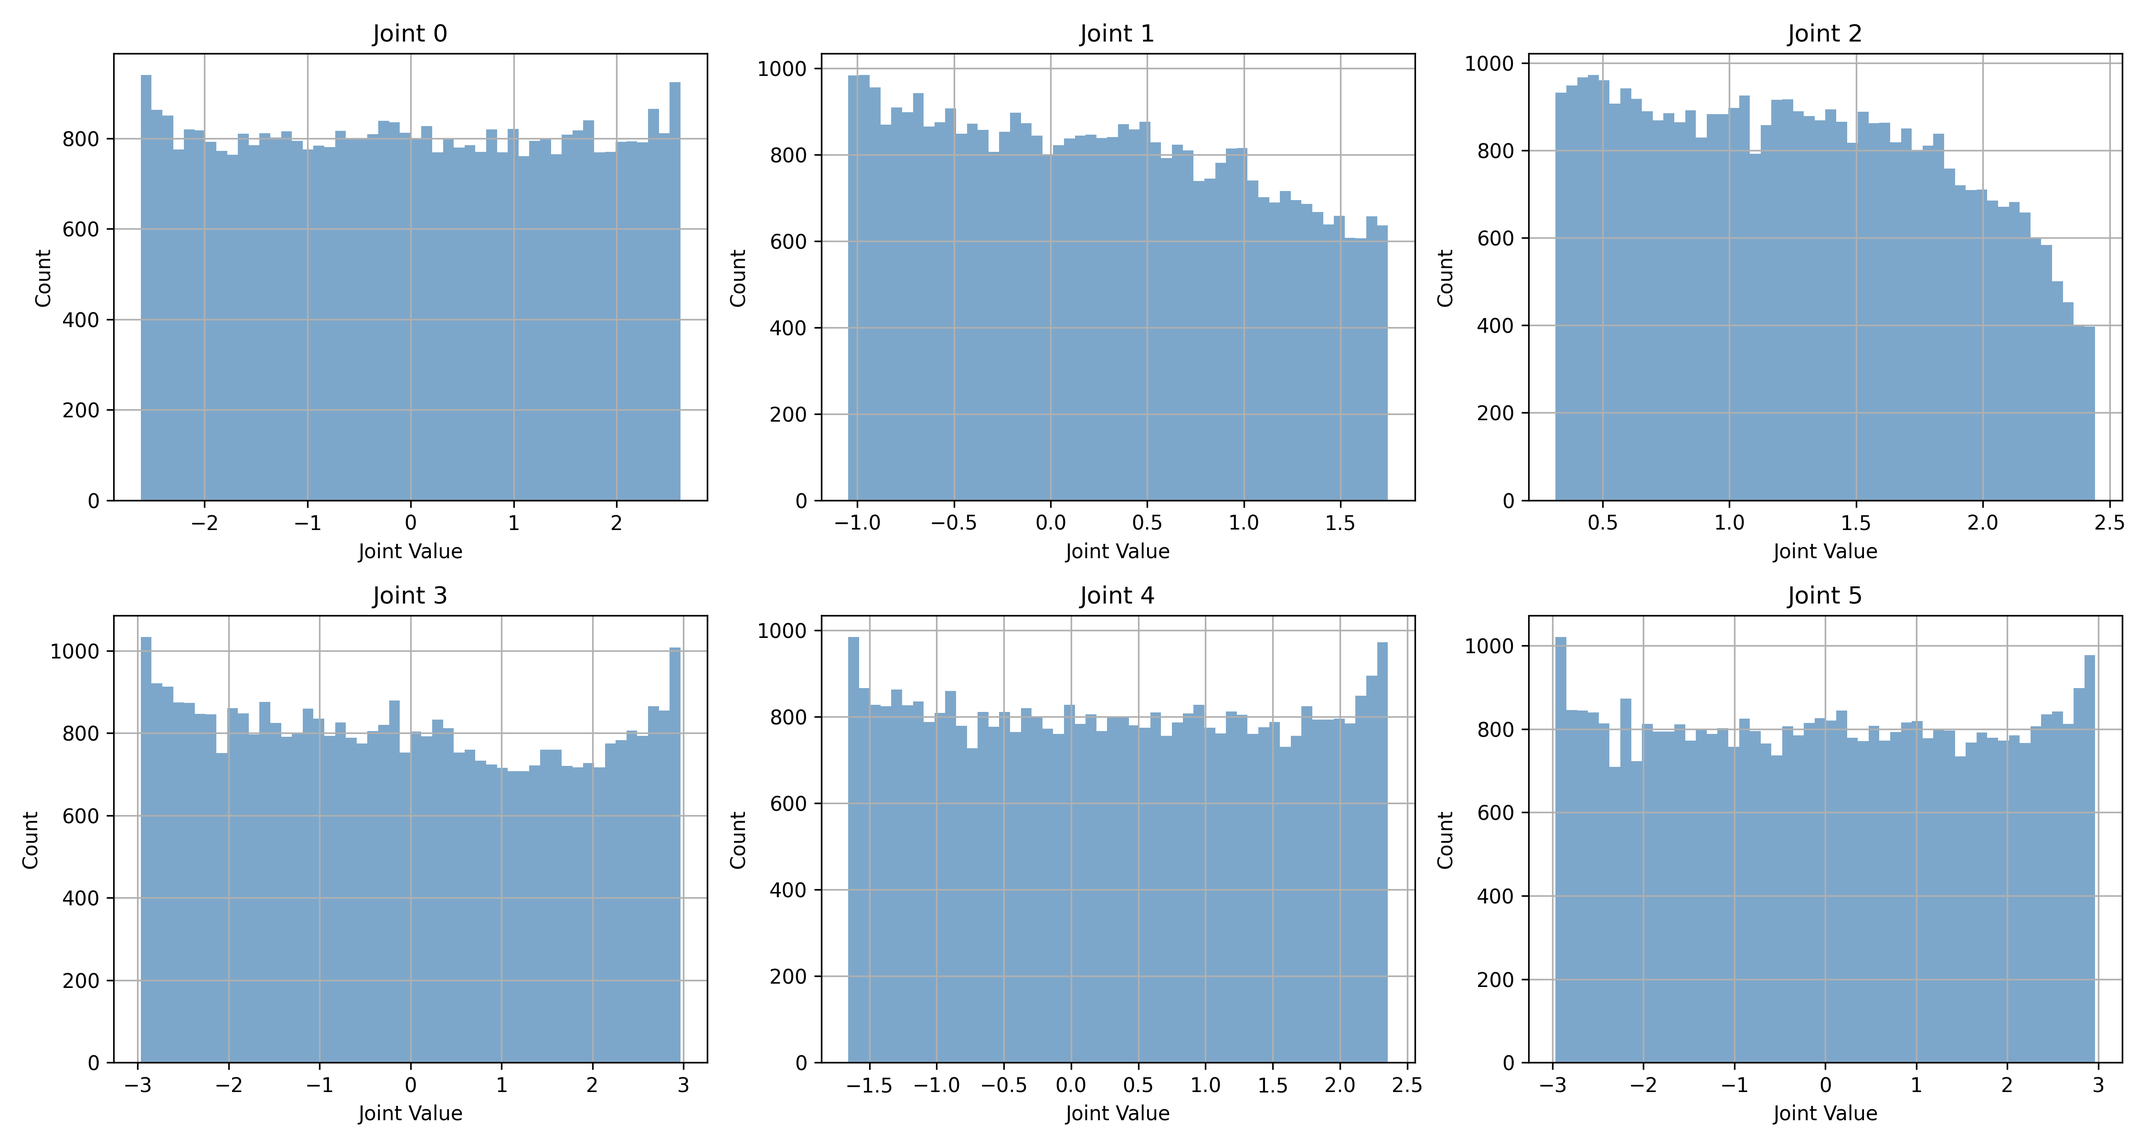
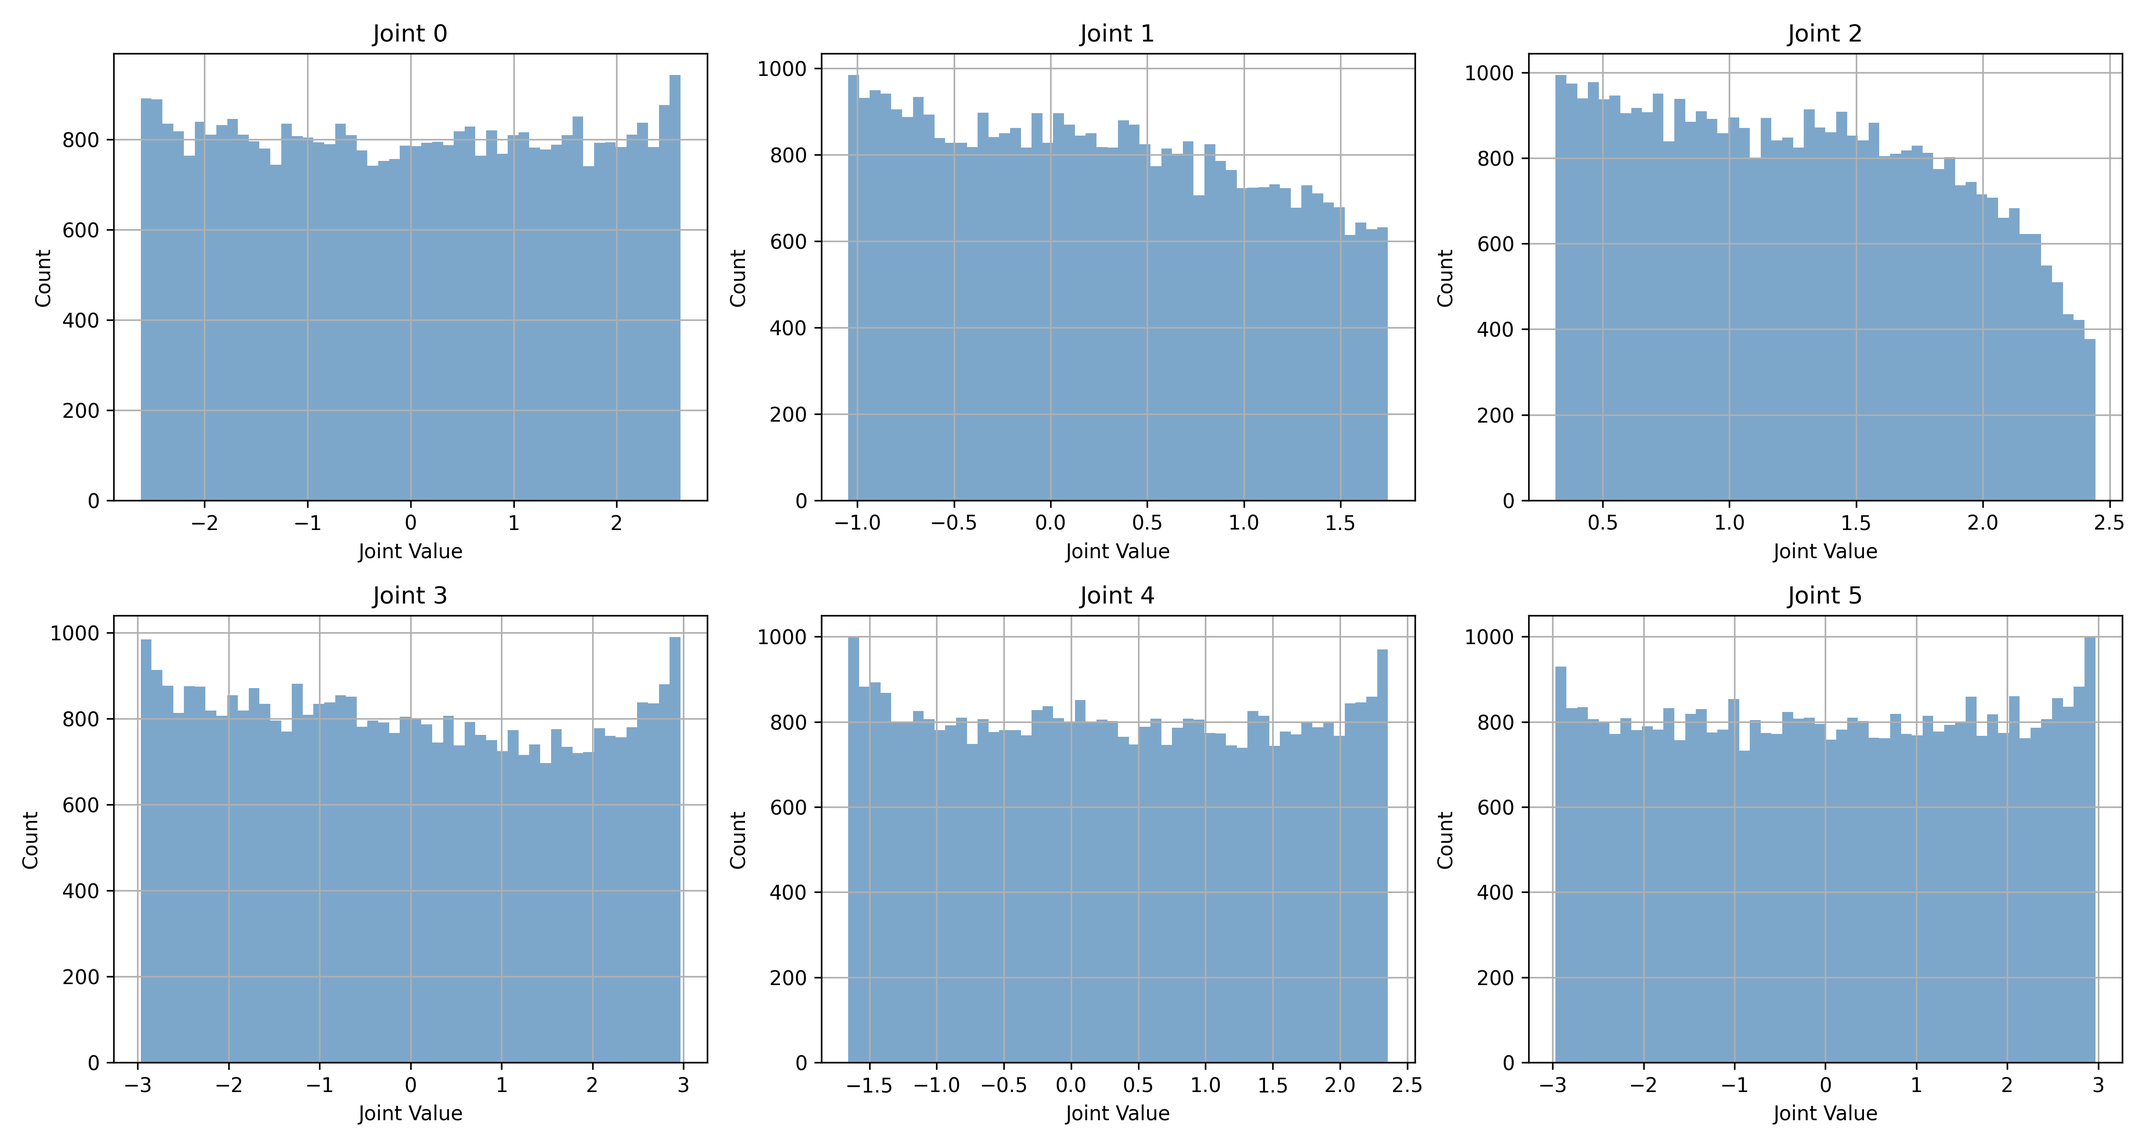
save before change to faiss for rrt roadmap saving

diff --git a/wrs/robot_sim/_kinematics/ik_dd.py b/wrs/robot_sim/_kinematics/ik_dd.py
@@ -24,42 +24,8 @@ from sklearn.linear_model import RANSACRegressor
 from scipy.spatial.distance import cdist
 from sklearn.cluster import MeanShift, estimate_bandwidth
 
-import numpy as np
 
-import numpy as np
-
-import numpy as np
-import numpy as np
-
-import numpy as np
-
-def damped_pinv(J, damping=1e-4):
-    m, n = J.shape
-    if m >= n:
-        # "Tall" or square Jacobian: (JᵗJ + λ²I)⁻¹ Jᵗ
-        JTJ = J.T @ J
-        damped_term = damping ** 2 * np.eye(n)
-        return np.linalg.inv(JTJ + damped_term) @ J.T
-    else:
-        # "Wide" Jacobian: Jᵗ (JJᵗ + λ²I)⁻¹
-        JJT = J @ J.T
-        damped_term = damping ** 2 * np.eye(m)
-        return J.T @ np.linalg.inv(JJT + damped_term)
-
-def clamp_tgt_err(f2t_pos_err, f2t_rot_err, f2t_err_vec):
-    clamp_pos_err = .1
-    clamp_rot_err = np.pi / 10.0
-    clamped_vec = np.copy(f2t_err_vec)
-    if f2t_pos_err >= clamp_pos_err:
-        clamped_vec[:3] = clamp_pos_err * f2t_err_vec[:3] / f2t_pos_err
-    if f2t_rot_err >= clamp_rot_err:
-        clamped_vec[3:6] = clamp_rot_err * f2t_err_vec[3:6] / f2t_rot_err
-    return clamped_vec
-
-def cosine_similarity(a, b, eps=1e-8):
-    dot = np.sum(a * b, axis=1)
-    norm = np.linalg.norm(a, axis=1) * np.linalg.norm(b, axis=1)
-    return dot / (norm + eps)
+# for debugging purpose
 
 
 class DDIKSolver(object):
@@ -82,7 +48,6 @@ class DDIKSolver(object):
         self._fname_jnt = os.path.join(path, f"{identifier_str}_jnt_data.pkl")
         self._k_max = 1000  # maximum nearest neighbours examined by the backbone solver
         self._max_n_iter = 7  # max_n_iter of the backbone solver
-        
         if backbone_solver == 'n':
             self._backbone_solver = ikn.NumIKSolver(self.jlc)
             print("Using NumIKSolver as the backbone solver.")
@@ -152,52 +117,9 @@ class DDIKSolver(object):
         if method == '-':
             return np.array([0])
 
-
     def _build_data(self):
-
-        def _generate_uniform_points_by_rrt_extend(self, n_points=500, ext_dist=0.3):
-            def _extended_rand_conf(self, expand_ratio=0.2):
-                jnt_min, jnt_max = self.jnt_ranges[:, 0], self.jnt_ranges[:, 1]
-                jnt_range = jnt_max - jnt_min
-                return np.random.uniform(jnt_min - expand_ratio * jnt_range,
-                                        jnt_max + expand_ratio * jnt_range)
-
-            joint_lower, joint_upper = self.jlc.jnt_ranges[:, 0], self.jlc.jnt_ranges[:, 1]
-            import wrs.motion.probabilistic.rrt as rrt
-            planner = rrt.RRT(self.jlc)
-            planner.roadmap.clear()
-            start_conf = ((joint_lower + joint_upper) / 2).tolist()
-            planner.start_conf = start_conf
-            planner.roadmap.add_node("start", conf=start_conf)
-
-            pbar = tqdm(total=n_points, desc=f"[{type(self.jlc).__name__}] Sampling")
-            while len(planner.roadmap.nodes) < n_points + 1:
-                prev_n = len(planner.roadmap.nodes)
-                rand_conf = _extended_rand_conf(self.jlc)
-                planner._extend_roadmap(planner.roadmap, rand_conf, ext_dist, rand_conf, [], [], False)
-                pbar.update(len(planner.roadmap.nodes) - prev_n)
-            pbar.close()
-
-            print(f"[{type(self.jlc).__name__}] Generated {len(planner.roadmap.nodes) - 1} configurations.")
-            conf_array = np.array([data["conf"] for nid, data in planner.roadmap.nodes.items() if nid != "start"])
-            np.save(f"{type(self.jlc).__name__}_configs.npy", conf_array)
-
-            sampled_min, sampled_max = np.min(conf_array, axis=0), np.max(conf_array, axis=0)
-            print('for robot:', type(self.jlc).__name__)
-            print("\n=== Joint Ranges (robot vs. sampled data) ===")
-            print(f"Sampled {len(conf_array)} configurations from RRT.")
-            for i, (jmin, jmax, smin, smax) in enumerate(zip(joint_lower, joint_upper, sampled_min, sampled_max)):
-                print(f"Joint {i}: range = [{jmin:.3f}, {jmax:.3f}], sampled = [{smin:.3f}, {smax:.3f}]")
-
-            return conf_array
-
-        if self.jlc.name in ['cobotta_arm', 'cobotta_pro_1300_manipulator', 'ur3']:
-            n_points = 40320
-        elif self.jlc.name in ['irb14050_sglarm_yumi']:
-            n_points = 201600
-
-        sampled_qs = _generate_uniform_points_by_rrt_extend(self, n_points=n_points, ext_dist=0.4)
-        # gen sampled qs and their correspondent flange poses
+        # gen sampled qs
+        sampled_qs = np.load('wrs/robot_sim/cbt_configs.npy')
         query_data = []
         jnt_data = []
         jinv_data = []
@@ -210,8 +132,6 @@ class DDIKSolver(object):
             # relative to base
             rel_pos, rel_rotmat = rm.rel_pose(self.jlc.pos, self.jlc.rotmat, flange_pos, flange_rotmat)
             rel_rotvec = self._rotmat_to_vec(rel_rotmat)
-
-            '''baseline query data'''
             query_data.append(rel_pos.tolist() + rel_rotvec.tolist())
             jnt_data.append(jnt_values)
             jinv_data.append(jinv)
@@ -254,7 +174,6 @@ class DDIKSolver(object):
             rel_pos, rel_rotmat = rm.rel_pose(self.jlc.pos, self.jlc.rotmat, tgt_pos, tgt_rotmat)
             rel_rotvec = self._rotmat_to_vec(rel_rotmat)
             query_point = np.concatenate((rel_pos, rel_rotvec))
-            import time
             dist_value_list, nn_indx_list = self.query_tree.query(query_point, k=self._k_max, workers=-1)
             if type(nn_indx_list) is int:
                 nn_indx_list = [nn_indx_list]
@@ -262,142 +181,10 @@ class DDIKSolver(object):
             seed_tcp_array = self.tcp_data[nn_indx_list]
             seed_jinv_array = self.jinv_data[nn_indx_list]
             seed_posrot_diff_array = query_point - seed_tcp_array
-            
-            '''original ranking by distance'''
             adjust_array = np.einsum('ijk,ik->ij', seed_jinv_array, seed_posrot_diff_array)
             square_sums = np.sum((adjust_array) ** 2, axis=1)
             sorted_indices = np.argsort(square_sums)
             seed_jnt_array_cad = seed_jnt_array[sorted_indices[:20]]
-
-            '''first iteration'''
-            # first_cad = seed_jnt_array_cad[0]
-            # pos, rotmat, j_mat = self.jlc.fk(jnt_values=first_cad, toggle_jacobian=True)
-            # f2t_pos_err, f2t_rot_err, f2t_err_vec = rm.diff_between_poses(src_pos=pos,
-            #                                                               src_rotmat=rotmat,
-            #                                                               tgt_pos=tgt_pos,
-            #                                                               tgt_rotmat=tgt_rotmat)
-            # clamped_err_vec = clamp_tgt_err(f2t_pos_err, f2t_rot_err, f2t_err_vec)
-            # # delta_jnt_values = np.linalg.lsts
-            # delta_jnt_values = np.linalg.lstsq(j_mat, clamped_err_vec, rcond=1e-4)[0]
-            # next_jnt_values = first_cad + delta_jnt_values
-            # # adjust_array[sorted_indices[0]]
-            
-            '''next iteration'''
-            # pos, rotmat, j_mat = self.jlc.fk(jnt_values=next_jnt_values, toggle_jacobian=True)
-            # f2t_pos_err, f2t_rot_err, f2t_err_vec = rm.diff_between_poses(src_pos=pos,
-            #                                                               src_rotmat=rotmat,
-            #                                                               tgt_pos=tgt_pos,
-            #                                                               tgt_rotmat=tgt_rotmat)
-            # clamped_err_vec = clamp_tgt_err(f2t_pos_err, f2t_rot_err, f2t_err_vec)
-            # delta_jnt_values = np.linalg.lstsq(j_mat, clamped_err_vec, rcond=1e-4)[0]
-            # next2_jnt_values = next_jnt_values + delta_jnt_values
-            # print(f"delta_jnt_values: {delta_jnt_values}")
-
-            # === 第一次迭代 ===
-            delta_q_list = []
-            for cad_id, jnt in enumerate(seed_jnt_array_cad):
-                pos, rotmat, j_mat = self.jlc.fk(jnt_values=jnt, toggle_jacobian=True)
-                f2t_pos_err, f2t_rot_err, f2t_err_vec = rm.diff_between_poses(src_pos=pos,
-                                                                              src_rotmat=rotmat,
-                                                                              tgt_pos=tgt_pos,
-                                                                              tgt_rotmat=tgt_rotmat)
-                clamped_err_vec = clamp_tgt_err(f2t_pos_err, f2t_rot_err, f2t_err_vec)
-                delta_jnt_values = np.linalg.lstsq(j_mat, clamped_err_vec, rcond=1e-4)[0]
-                delta_q_list.append(delta_jnt_values)
-            delta_jnt_values_array = np.array(delta_q_list)
-            next_jnt_values_array = seed_jnt_array_cad + delta_jnt_values_array
-            delta_jnt_values_squared = np.sum(delta_jnt_values_array ** 2, axis=1)
-
-            # === 第二次迭代 ===
-            middle_jnt_array = seed_jnt_array_cad + 1.0 * delta_jnt_values_array
-            mid_delta_q_list = []
-            for cad_id, jnt in enumerate(middle_jnt_array):
-                pos, rotmat, j_mat = self.jlc.fk(jnt_values=jnt, toggle_jacobian=True)
-                f2t_pos_err, f2t_rot_err, f2t_err_vec = rm.diff_between_poses(src_pos=pos,
-                                                                              src_rotmat=rotmat,
-                                                                              tgt_pos=tgt_pos,
-                                                                              tgt_rotmat=tgt_rotmat)
-                clamped_err_vec = clamp_tgt_err(f2t_pos_err, f2t_rot_err, f2t_err_vec)
-                delta_jnt_values = np.linalg.lstsq(j_mat, clamped_err_vec, rcond=1e-4)[0]
-                mid_delta_q_list.append(delta_jnt_values)
-            mid_delta_jnt_values_array = np.array(mid_delta_q_list)
-            mid_next_jnt_values_array = middle_jnt_array + mid_delta_jnt_values_array
-            mid_delta_jnt_values_squared = np.sum(mid_delta_jnt_values_array ** 2, axis=1)
-
-            # === 第三次迭代 ===
-            final_delta_q_list = []
-            for cad_id, jnt in enumerate(mid_next_jnt_values_array):
-                pos, rotmat, j_mat = self.jlc.fk(jnt_values=jnt, toggle_jacobian=True)
-                f2t_pos_err, f2t_rot_err, f2t_err_vec = rm.diff_between_poses(
-                    src_pos=pos,
-                    src_rotmat=rotmat,
-                    tgt_pos=tgt_pos,
-                    tgt_rotmat=tgt_rotmat
-                )
-                clamped_err_vec = clamp_tgt_err(f2t_pos_err, f2t_rot_err, f2t_err_vec)
-                delta_jnt_values = np.linalg.lstsq(j_mat, clamped_err_vec, rcond=1e-4)[0]
-                final_delta_q_list.append(delta_jnt_values)
-
-            final_delta_jnt_values_array = np.array(final_delta_q_list)
-            final_jnt_values_array = mid_next_jnt_values_array + final_delta_jnt_values_array
-            final_delta_jnt_values_squared = np.sum(final_delta_jnt_values_array ** 2, axis=1)
-
-            # 第四次迭代
-            fourth_delta_q_list = []
-            for cad_id, jnt in enumerate(final_jnt_values_array):
-                pos, rotmat, j_mat = self.jlc.fk(jnt_values=jnt, toggle_jacobian=True)
-                f2t_pos_err, f2t_rot_err, f2t_err_vec = rm.diff_between_poses(
-                    src_pos=pos,
-                    src_rotmat=rotmat,
-                    tgt_pos=tgt_pos,
-                    tgt_rotmat=tgt_rotmat
-                )
-                clamped_err_vec = clamp_tgt_err(f2t_pos_err, f2t_rot_err, f2t_err_vec)
-                delta_jnt_values = np.linalg.lstsq(j_mat, clamped_err_vec, rcond=1e-4)[0]
-                fourth_delta_q_list.append(delta_jnt_values)
-            fourth_delta_jnt_values_array = np.array(fourth_delta_q_list)
-            final_jnt_values_array = final_jnt_values_array + fourth_delta_jnt_values_array
-            final_delta_jnt_values_squared = np.sum(fourth_delta_jnt_values_array ** 2, axis=1)
-
-
-            # ratio_array_1 = delta_jnt_values_array / delta_pose_array
-            # ratio_array_2 = mid_delta_jnt_values_array / mid_delta_pose_array
-            # ratio_array_3 = final_delta_jnt_values_array / final_delta_pose_array
-            
-            # # # print(f"ratio_array_1: {ratio_array_1}")
-            # # # print(f"ratio_array_2: {ratio_array_2}")
-            
-            # # # linearity_error = np.sum((ratio_array_1 - ratio_array_2) ** 2, axis=1)
-            # linearity_error = (np.mean(np.abs(ratio_array_3), axis=1) - np.mean(np.abs(ratio_array_2), axis=1)) ** 2
-            # # # dot_product = np.sum(delta_jnt_values_array * mid_delta_jnt_values_array, axis=1)
-            # # # norm1 = np.linalg.norm(delta_jnt_values_array, axis=1)
-            # # # norm2 = np.linalg.norm(mid_delta_jnt_values_array, axis=1)
-            # # # cos_sim = dot_product / (norm1 * norm2 + 1e-8)
-            # # # linearity_error = 1 - cos_sim
-
-            # # mu_1 = np.mean(np.abs(ratio_array_1), axis=1)
-            # # mu_2 = np.mean(np.abs(ratio_array_2), axis=1)
-            # # mu_3 = np.mean(np.abs(ratio_array_3), axis=1)
-
-            # # linearity_error = (
-            # #     (mu_1 - mu_2) ** 2 +
-            # #     (mu_2 - mu_3) ** 2 +
-            # #     (mu_1 - mu_3) ** 2
-            # # ) / 3
-            
-            # seed_jnt_array_cad = final_jnt_values_array[np.argsort(linearity_error)[:20]]
-
-            '''sum of three joint adjustment based ranking'''
-            # sum_squared = delta_jnt_values_squared + mid_delta_jnt_values_squared
-            # sum_squared = delta_jnt_values_squared + mid_delta_jnt_values_squared+ final_delta_jnt_values_squared
-            sum_squared = final_delta_jnt_values_squared
-            sorted_indices = np.argsort(sum_squared)
-            seed_jnt_array_cad = final_jnt_values_array[sorted_indices[:20]]
-
-            
-
-
-
             for id, seed_jnt_values in enumerate(seed_jnt_array_cad):
                 if id > best_sol_num:
                     return None
@@ -412,8 +199,7 @@ class DDIKSolver(object):
                                                toggle_dbg=toggle_dbg)
                 if result is None:
                     nid = id+1
-                    distances = np.linalg.norm(nid*seed_jnt_array_cad[nid:] - np.sum(seed_jnt_array_cad[:nid], axis=0), axis=1) # 和的差的平方
-                    # distances = np.sum(np.sum((seed_jnt_array_cad[nid:, None, :] - seed_jnt_array_cad[:nid][None, :, :])**2, axis=2),axis=1)  # 差的平方和
+                    distances = np.linalg.norm(nid*seed_jnt_array_cad[nid:] - np.sum(seed_jnt_array_cad[:nid], axis=0), axis=1)
                     sorted_cad_indices = np.argsort(-distances)
                     seed_jnt_array_cad[nid:] = seed_jnt_array_cad[nid:][sorted_cad_indices]
                     continue

diff --git a/wrs/motion/probabilistic/rrt_kdt_construction.py b/wrs/motion/probabilistic/rrt_kdt_construction.py
@@ -50,45 +50,54 @@ def generate_uniform_points_by_rrt_extend(robot, n_points=500, ext_dist=0.3):
     for i, (jmin, jmax, smin, smax) in enumerate(zip(joint_lower, joint_upper, sampled_min, sampled_max)):
         print(f"Joint {i}: range = [{jmin:.3f}, {jmax:.3f}], sampled = [{smin:.3f}, {smax:.3f}]")
 
-    fig, axes = plt.subplots(nrows=2, ncols=3, figsize=(15, 8))
+    import math
+
+    n_joints = conf_array.shape[1]
+    n_cols = 3  # 每行 3 个子图
+    n_rows = math.ceil(n_joints / n_cols)  # 自动计算行数
+
+    fig, axes = plt.subplots(nrows=n_rows, ncols=n_cols, figsize=(5 * n_cols, 4 * n_rows))
     axes = axes.flatten()
-    for i in range(conf_array.shape[1]):
+
+    for i in range(n_joints):
         ax = axes[i]
         ax.hist(conf_array[:, i], bins=50, alpha=0.7, color='steelblue')
         ax.set_title(f"Joint {i}")
         ax.set_xlabel("Joint Value")
         ax.set_ylabel("Count")
         ax.grid(True)
-    for j in range(conf_array.shape[1], 6):
+
+    for j in range(n_joints, len(axes)):
         axes[j].axis('off')
     plt.tight_layout()
-    # plt.show()
     fig_path = '0000_test_programs/nn_ik/res_figs/0723_save'
-    if not os.path.exists(fig_path):
-        os.makedirs(fig_path)
+    os.makedirs(fig_path, exist_ok=True)
     fig.savefig(os.path.join(fig_path, f"{type(robot).__name__}_joint_histograms.png"), dpi=300)
 
     return conf_array
 
 
 if __name__ == '__main__':
-    robot_name_list = ['cbt','cbtpro1300', 'ur3', 'yumi']  # 支持多个机器人
+    # robot_name_list = ['cbt','cbtpro1300', 'ur3', 'yumi']  # 支持多个机器人
+    robot_name_list = ['yumi']
     for name in robot_name_list:
         if name == 'yumi':
             robot = yumi.YumiSglArm(pos=rm.vec(0.1, .3, .5), enable_cc=True)
-            n_points = 201600
+            n_points = 201600 # 201600
         elif name == 'cbt':
             robot = cbt.Cobotta(pos=rm.vec(0.1, .3, .5), enable_cc=True)
-            n_points = 40320
+            n_points = 40320 # 40320
         elif name == 'ur3':
             robot = ur3.UR3(pos=rm.vec(0.1, .3, .5), enable_cc=True)
-            n_points = 40320
+            n_points = 40320 # 40320
         elif name == 'cbtpro1300':
             robot = cbtpro1300.CobottaPro1300WithRobotiq140(pos=rm.vec(0.1, .3, .5), enable_cc=True)
-            n_points = 40320
+            n_points = 40320 # 40320
         else:
             raise ValueError(f"Invalid robot name: {name}")
         conf_array = generate_uniform_points_by_rrt_extend(robot, n_points=n_points, ext_dist=0.4)
         print(f"Generated {len(conf_array)} configurations for {name}.")
-        save_path = f"wrs/robot_sim/_kinematics/{name}_configs.npy"
+        save_path = f"wrs/robot_sim/{name}_configs.npy"
         np.save(save_path, conf_array)
+        print(f"Configurations saved to {save_path}.")
+        print(f'config_array shape: {conf_array.shape}')

diff --git a/wrs/robot_sim/manipulators/manipulator_interface.py b/wrs/robot_sim/manipulators/manipulator_interface.py
@@ -268,7 +268,7 @@ class ManipulatorInterface(object):
 
     ## member functions for cdprimit collisions
 
-    def is_collided(self, obstacle_list=[], otherrobot_list=[], toggle_contacts=False):
+    def is_collided(self, obstacle_list=[], other_robot_list=[], toggle_contacts=False):
         """
         Interface for "is cdprimit collided", must be implemented in child class
         :param obstacle_list:
@@ -281,7 +281,7 @@ class ManipulatorInterface(object):
         if self.cc is None:  # TODO assertion decorator
             raise ValueError("Collision checker is not enabled!")
         return self.cc.is_collided(obstacle_list=obstacle_list,
-                                   other_robot_list=otherrobot_list, toggle_contacts=toggle_contacts)
+                                   other_robot_list=other_robot_list, toggle_contacts=toggle_contacts)
 
     def show_cdprim(self):
         """

diff --git a/0000_test_programs/nn_ik/formal_numik_randomtest.py b/0000_test_programs/nn_ik/formal_numik_randomtest.py
@@ -27,11 +27,11 @@ mcm.mgm.gen_frame().attach_to(base)
 
 
 nupdate = 10000
-best_sol_num_list = [0] # [1,3,5,10,20]
-# best_sol_num_list = np.arange(1, 21, 1).tolist() # [1,2,3,...,30]
+# best_sol_num_list = [1,3,5,10,20]
+best_sol_num_list = np.arange(1, 21, 1).tolist() # [1,2,3,...,30]
 robot_list = ['cbt','cbtpro1300', 'ur3', 'yumi']
 # robot_list = ['cbt','cbtpro1300']
-# robot_list = ['ur3']
+robot_list = ['cbt']
 json_file = "metrics_robot_result.jsonl"
 
 if __name__ == '__main__':
